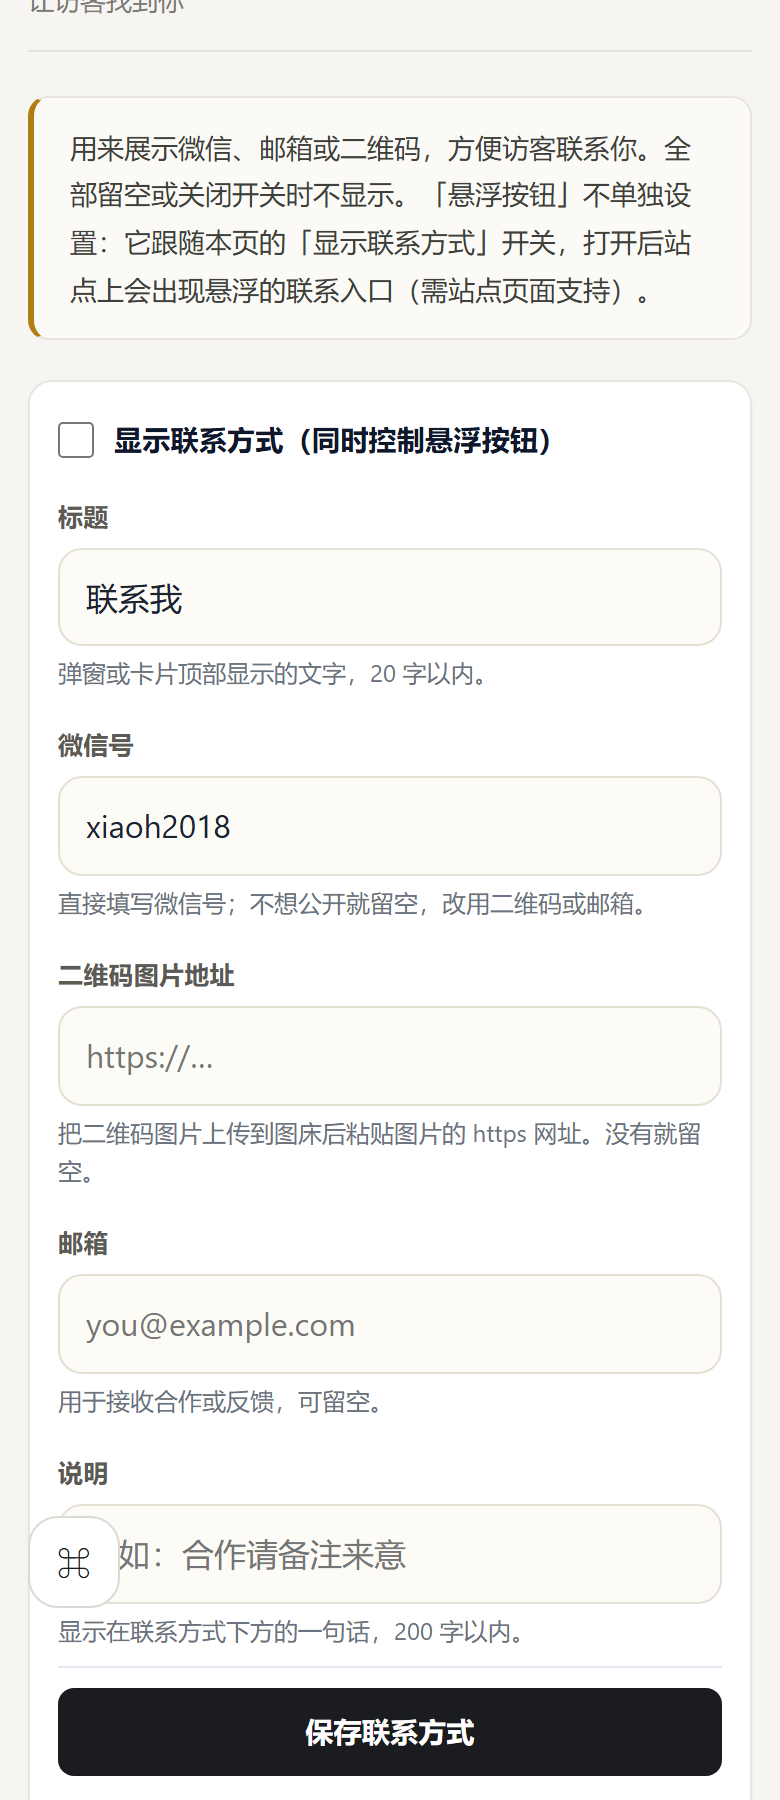
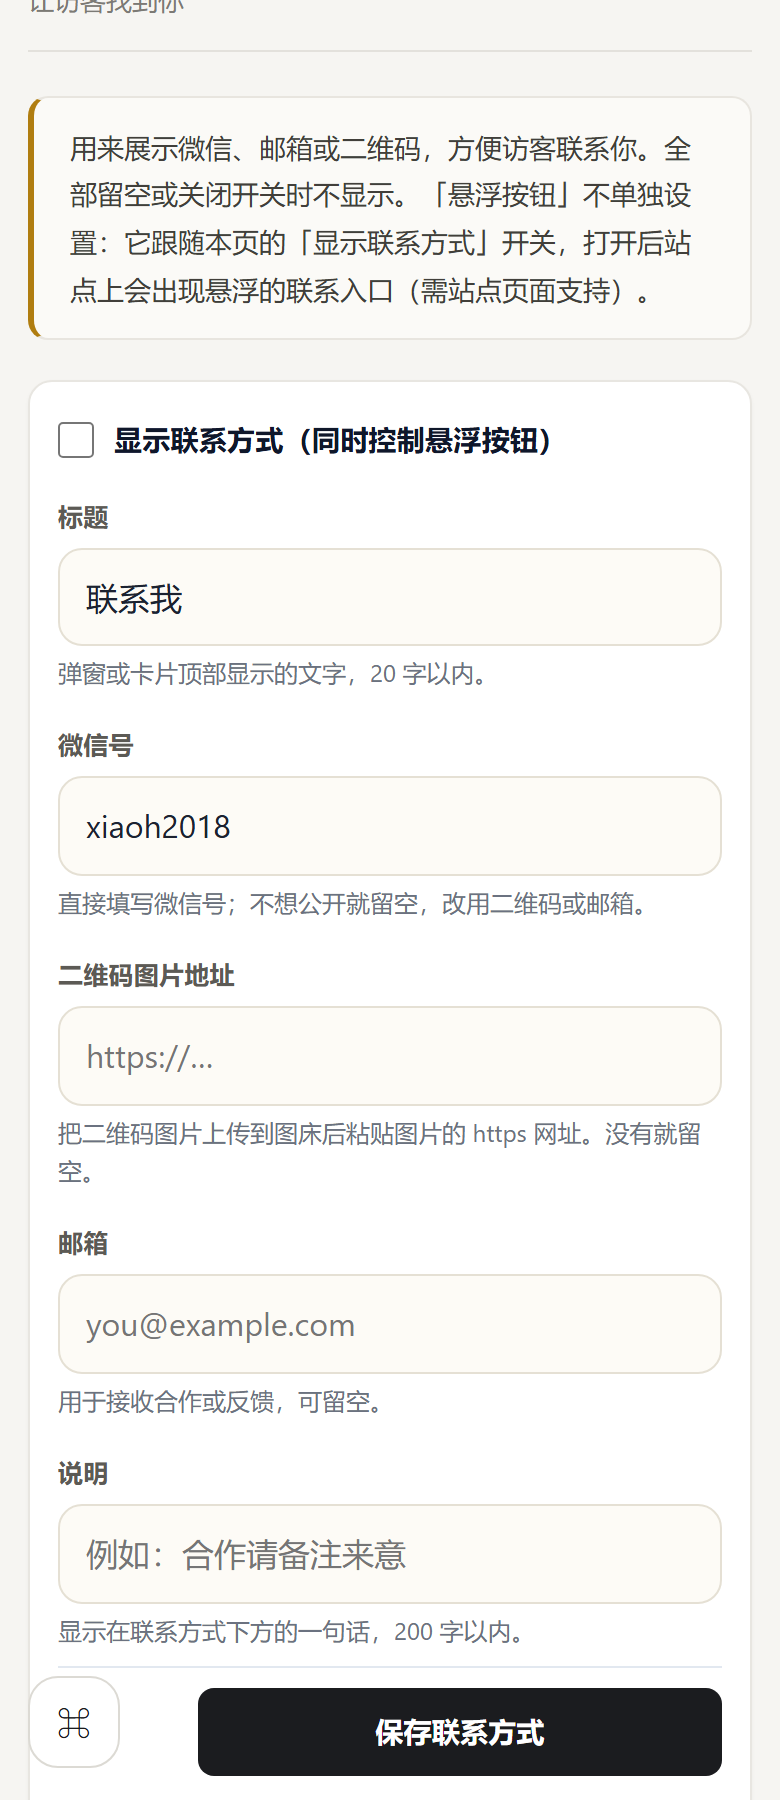
fix: 吸底保存条给左下角 ⌘ 留 70px 空档（原先两者重叠），修正 check-live 断言与文档

Changed region(s): [[0.4, 0.9333, 0.7077, 0.9956], [0.0615, 0.9333, 0.2769, 0.9956], [0.0615, 0.84, 0.1538, 0.9022]]

diff --git a/worker.js b/worker.js
@@ -3787,7 +3787,7 @@ tr:hover td{background:#fcfbf8}
   .status-item{flex-wrap:wrap;row-gap:2px}
   .status-item>span:not(.dot){flex:1 1 100%;color:var(--muted);font-size:13px;padding-left:18px}
   .main .btn,.main button,.main a.btn,.ghost.small{min-height:38px;display:inline-flex;align-items:center;justify-content:center}
-  .card .actions{position:sticky;bottom:0;z-index:2;display:flex;gap:8px;flex-wrap:wrap;padding:10px 0 12px;margin-top:8px;background:var(--card);border-top:1px solid var(--line)}
+  .card .actions{position:sticky;bottom:0;z-index:2;display:flex;gap:8px;flex-wrap:wrap;padding:10px 0 12px 70px;margin-top:8px;background:var(--card);border-top:1px solid var(--line)}
   .card .actions>button,.card .actions>.btn{flex:1 1 100%;min-height:44px}
   .app{grid-template-columns:1fr}
   .side{position:sticky;top:0;height:auto;display:flex;overflow-x:auto;padding:0;border-right:0;border-bottom:1px solid #16233a;background:linear-gradient(180deg,#0b1220 0%,#0d1a2f 100%)}
@@ -3821,7 +3821,6 @@ tr:hover td{background:#fcfbf8}
   .ck-foot{padding:4px 4px 0;font-size:12px;color:#94a3b8}
 .cmdk-fab{position:fixed;left:14px;bottom:16px;z-index:30;width:46px;height:46px;padding:0;border-radius:15px;font-size:17px;line-height:1;box-shadow:0 8px 20px rgba(15,23,42,.18)}
 @media (min-width:761px){.cmdk-fab{display:none}}
-@media (max-width:760px){.cmdk-fab{bottom:96px}}
   .side .nav:focus-visible{outline-offset:-2px;box-shadow:0 0 0 3px rgba(37,99,235,.25)}
   .navgroup:first-child .nav{margin-top:0}
   .skip-link{position:absolute;left:-9999px;top:8px;z-index:99;background:#fff;border:1px solid #2563eb;border-radius:8px;padding:8px 12px;font-size:13px}

diff --git a/docs/优化建议.md b/docs/优化建议.md
@@ -3996,7 +3996,13 @@ out.push(todoRow(!!sub.keyFileOk, 'IndexNow key 文件可访问', 'submit', '提
 .card .actions>button,.card .actions>.btn{flex:1 1 100%;min-height:44px}
 ```
 
-**连带的一个坑**：左下角「命令面板」浮动按钮 `⌘` 原本 `bottom:16px`，正好压在吸底保存条上。把它抬到 `bottom:96px` 才让出空间 —— 而且这条覆盖必须写在 `.cmdk-fab{position:fixed;…bottom:16px}` **之后**：两条都是单类选择器（0,1,0），靠顺序决胜，写在前面等于没写（第一版就是因此门禁 4 项红）。
+**连带的一个坑（试了两版才定）**：左下角「命令面板」浮动按钮 `⌘` 是 `position:fixed;bottom:16px`，吸底保存条也在底部，两者直接叠在一起，点保存时会点到 ⌘。
+
+第一版：把 ⌘ 抬到 `bottom:96px`。截图发现它挡住了上面「说明」输入框的左半边 —— 更糟，因为点输入框会点到 ⌘。
+
+最终版：⌘ 留在 `bottom:16px`，**改给保存条留位** —— `.card .actions` 左内边距 `70px`，⌘ 正好落在这一行的空档里，按钮从不被压。
+
+两条注意：①这条覆盖必须写在 `.cmdk-fab{position:fixed;…bottom:16px}` **之后**（单类 0,1,0 对单类 0,1,0，靠顺序决胜），写在前面等于没写；②`padding-left:70px` 要写进吸底条原有的简写 `padding` 里，否则会被简写整体覆盖。
 
 ### 门禁
 
